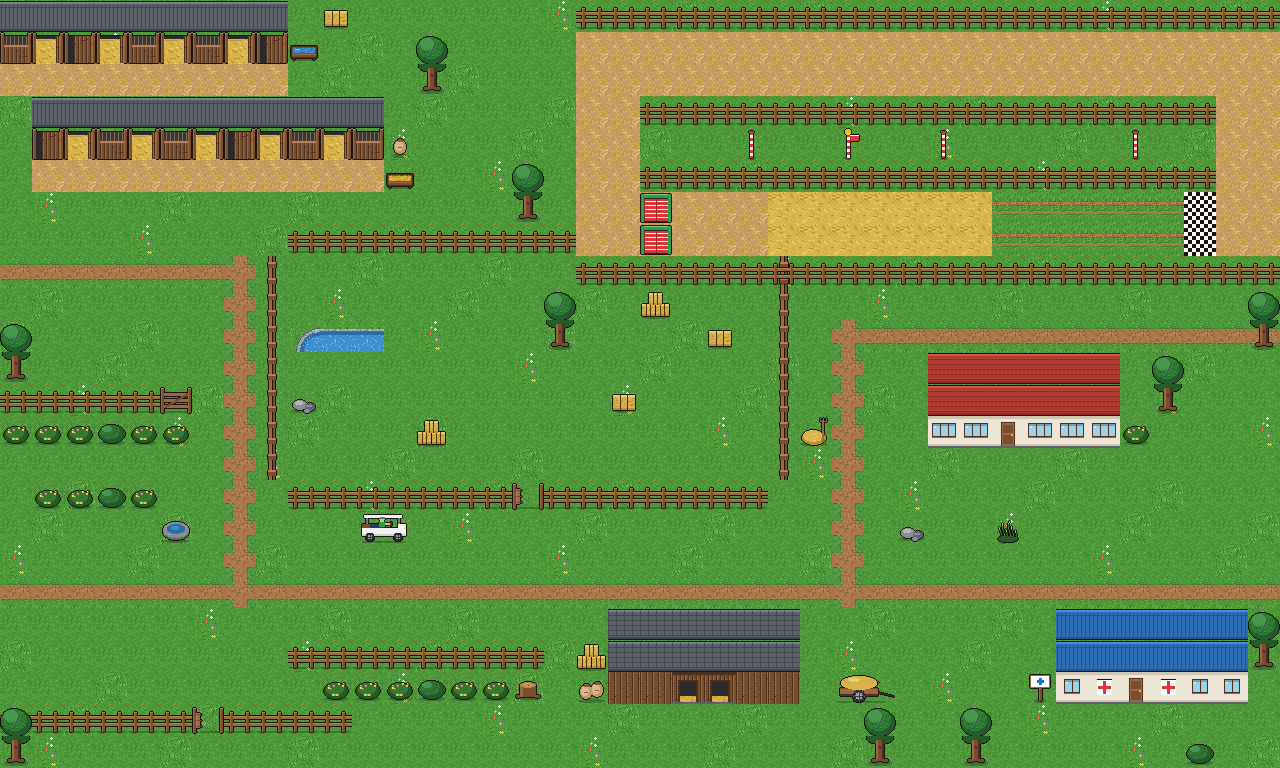
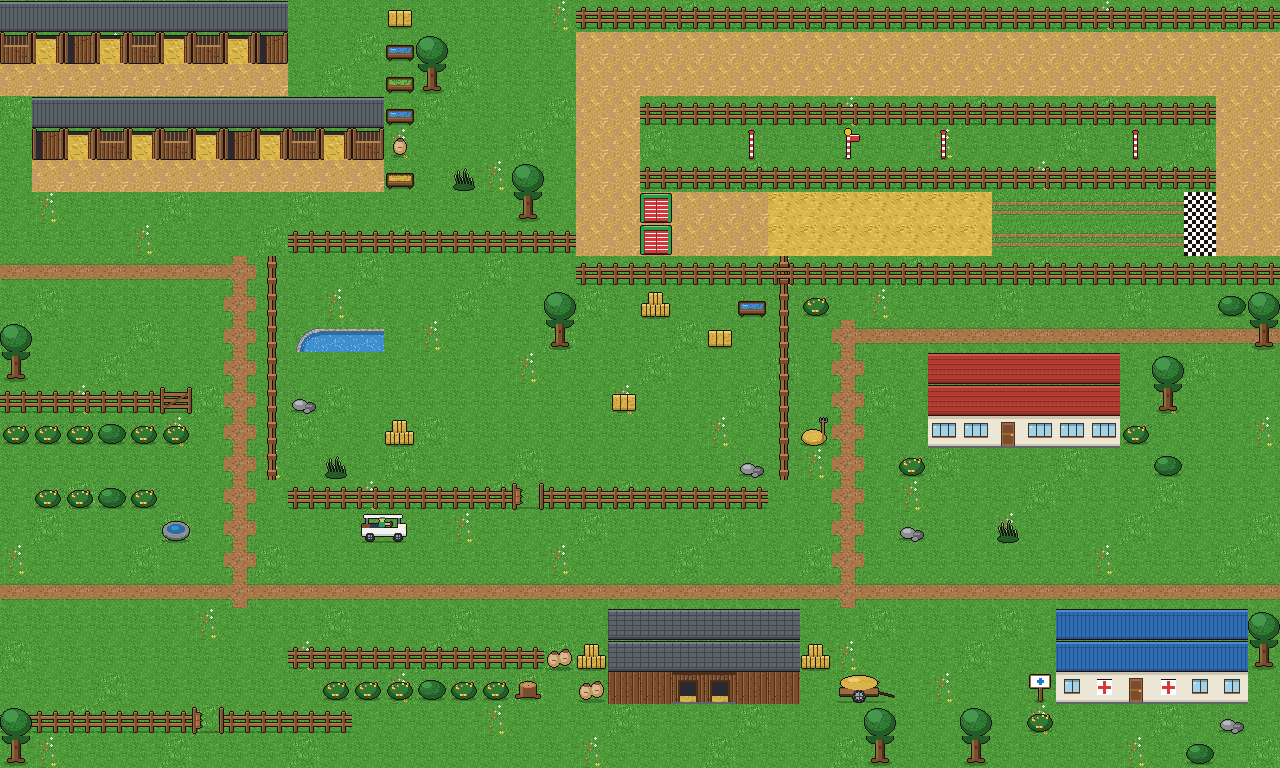
fix: rebuild enriched farm map from current layout

diff --git a/art/map/gen-layout.ts b/art/map/gen-layout.ts
@@ -2,6 +2,7 @@
 // Chỉ đặt ô cắt nguyên từ các sheet đã duyệt (S07/S08/S10/S15); Aseprite (build-farm-map.lua) ghép thành PNG.
 // Chạy: node art/map/gen-layout.ts && aseprite -b --script art/aseprite/build-farm-map.lua
 import { writeFileSync } from "node:fs";
+import { createHash } from "node:crypto";
 
 const T = 32;
 const W = 40;
@@ -251,5 +252,7 @@ decor(WEEDS, 31, 16, 42);
 decor(STRAW_PILE, 25, 13, 42);
 
 const layout = { version: 3, world: { width: W * T, height: H * T, tile: T }, fills, placements, objects };
-writeFileSync(new URL("./farm-layout.json", import.meta.url), JSON.stringify(layout, null, 1));
+const layoutJson = JSON.stringify(layout, null, 1);
+writeFileSync(new URL("./farm-layout.json", import.meta.url), layoutJson);
+writeFileSync(new URL("./farm-layout.sha256", import.meta.url), `${createHash("sha256").update(layoutJson).digest("hex")}\n`);
 console.log(`farm-layout.json: ${placements.length} placements, ${objects.length} objects, world ${W * T}×${H * T}`);
